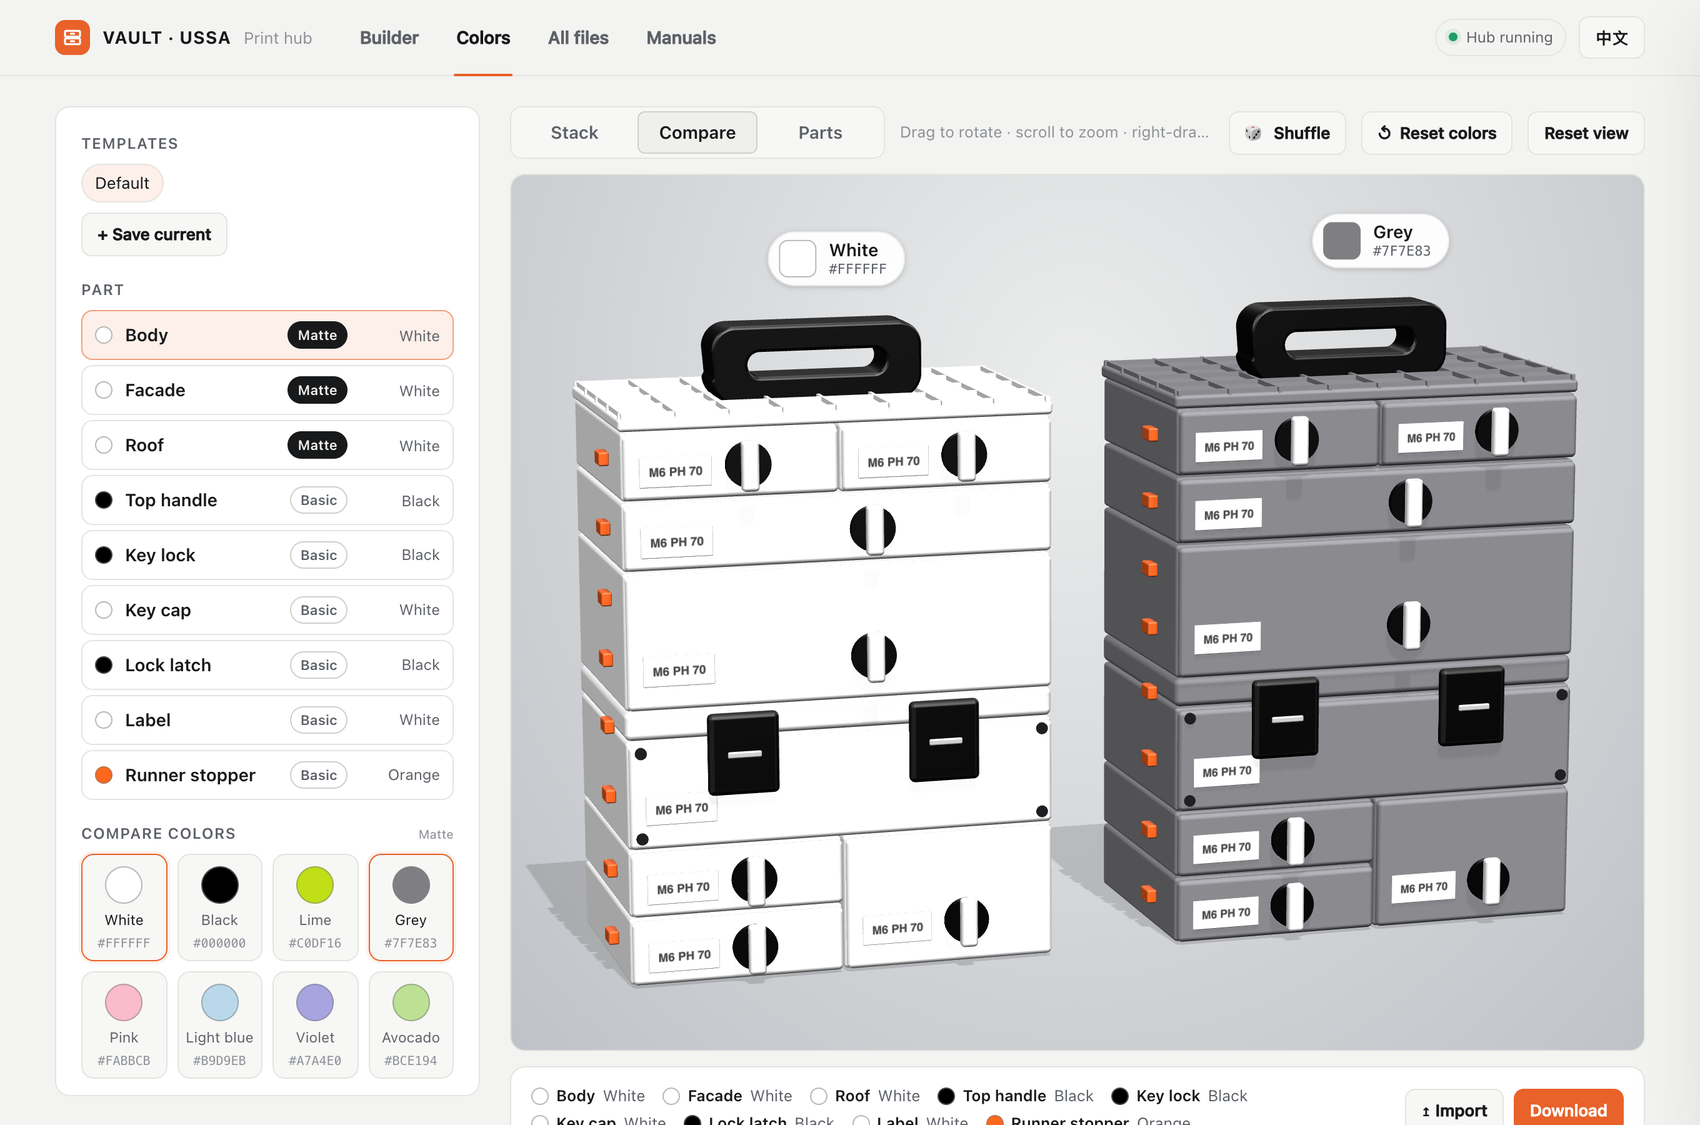
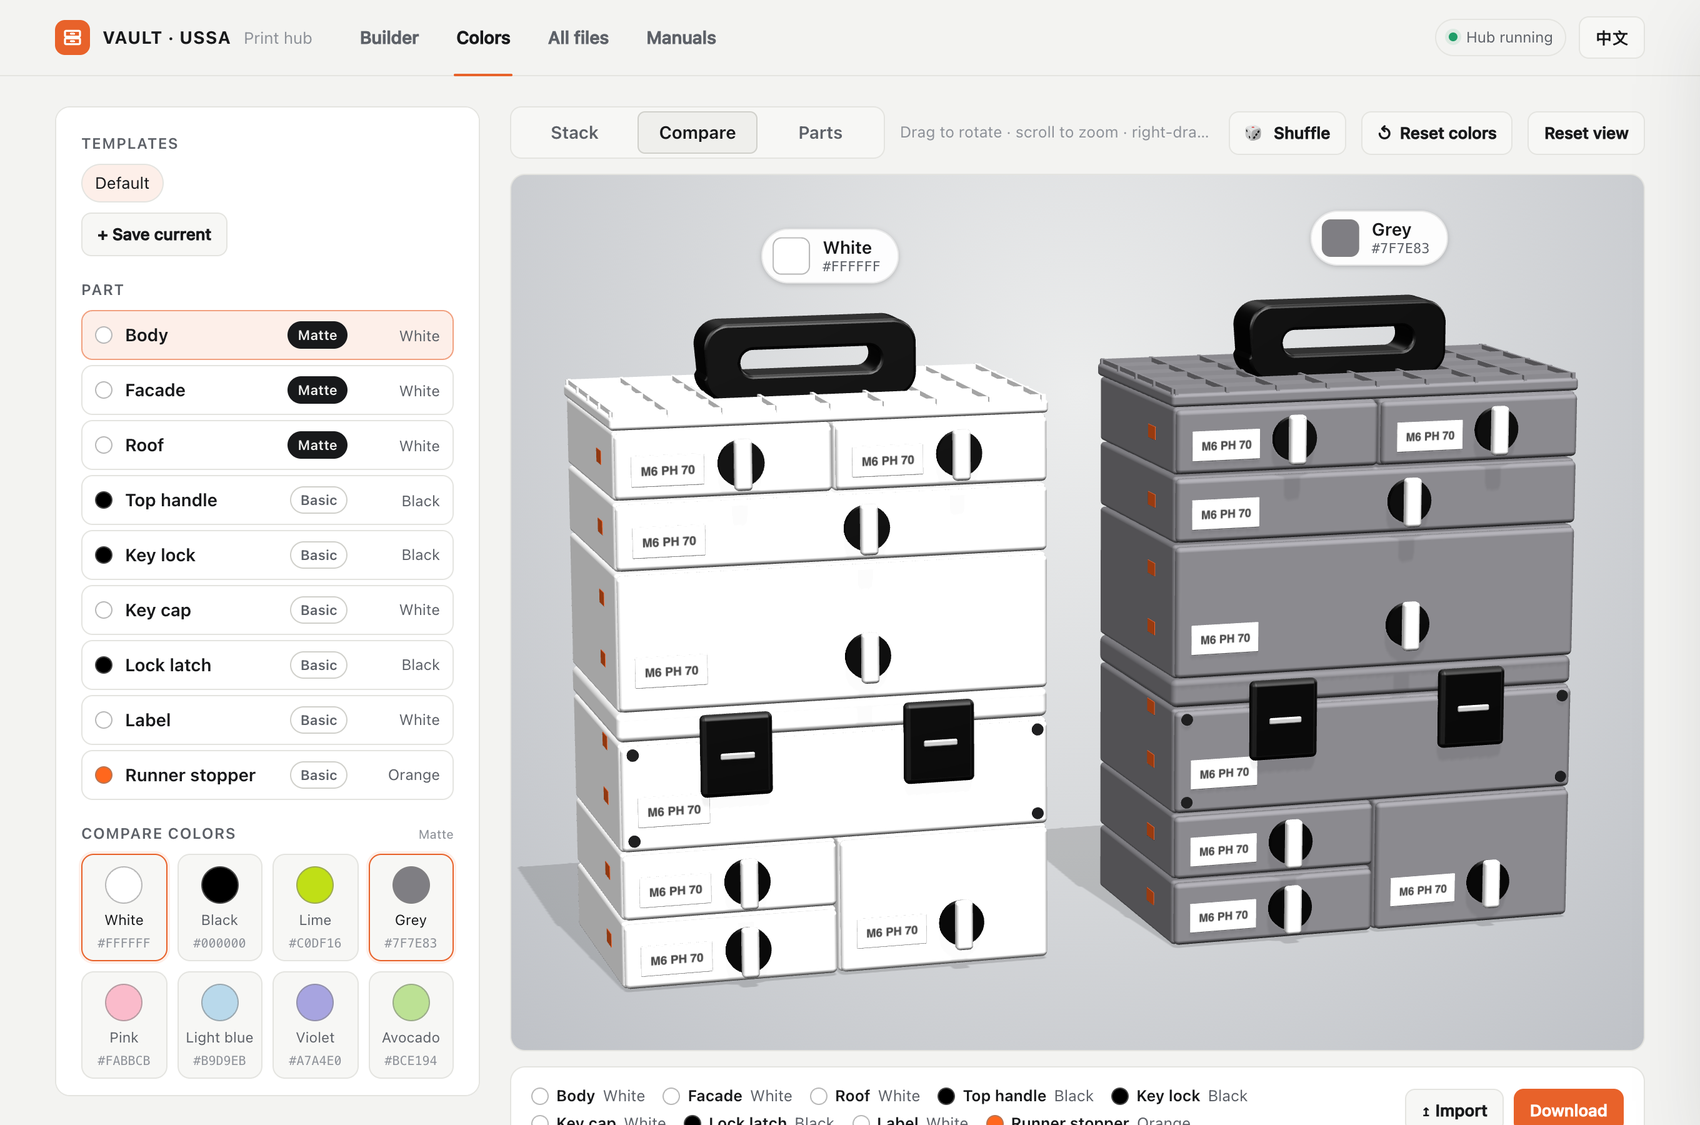
Runner stoppers: flat plates flush with the box wall

diff --git a/index.html b/index.html
@@ -1696,8 +1696,9 @@ function buildTower(e, hexOf) {
     const { cx, w, y, h } = u;
     // Runner stoppers lock the drawer on its rail. They sit on the box's left side wall, about a third of the way back from the front:
     // one per 1F, two per 2F (heights measured from the reference photo). Only the stack's left wall is visible, so only those boxes get them.
+    // The stopper is a flat plate, flush with the wall; on a sustainer both sit on the body, below the lid seam.
     if (cx - w / 2 === -L / 2) {
-      for (const f of h < 60 ? [0.5] : u.kind === 'sustainer' ? [0.81, 0.3] : [0.74, 0.3]) add(rb(8, 10.5, 18, 1.5), mat('stopper'), -L / 2 - 3.4, y + h * f, -0.28 * DEPTH, 'stopper');
+      for (const f of h < 60 ? [0.5] : u.kind === 'sustainer' ? [0.7, 0.3] : [0.74, 0.3]) add(rb(0.9, 10.5, 18, 1), mat('stopper'), -L / 2 + 0.75, y + h * f, -0.28 * DEPTH, 'stopper');
     }
     if (u.kind === 'drawer') {
       add(rb(w - 1.5, h - 1.5, DEPTH, 3), mat('body'), cx, y + h / 2, -DEPTH / 2, 'body');
